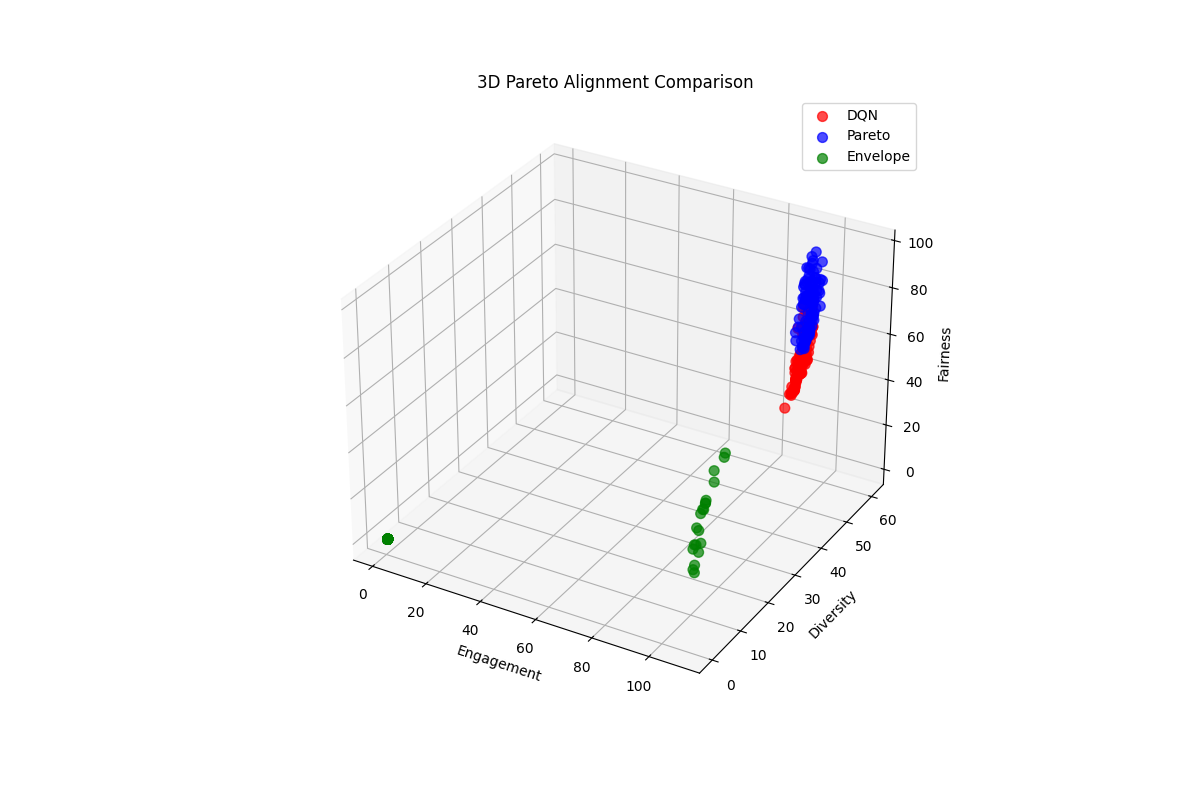
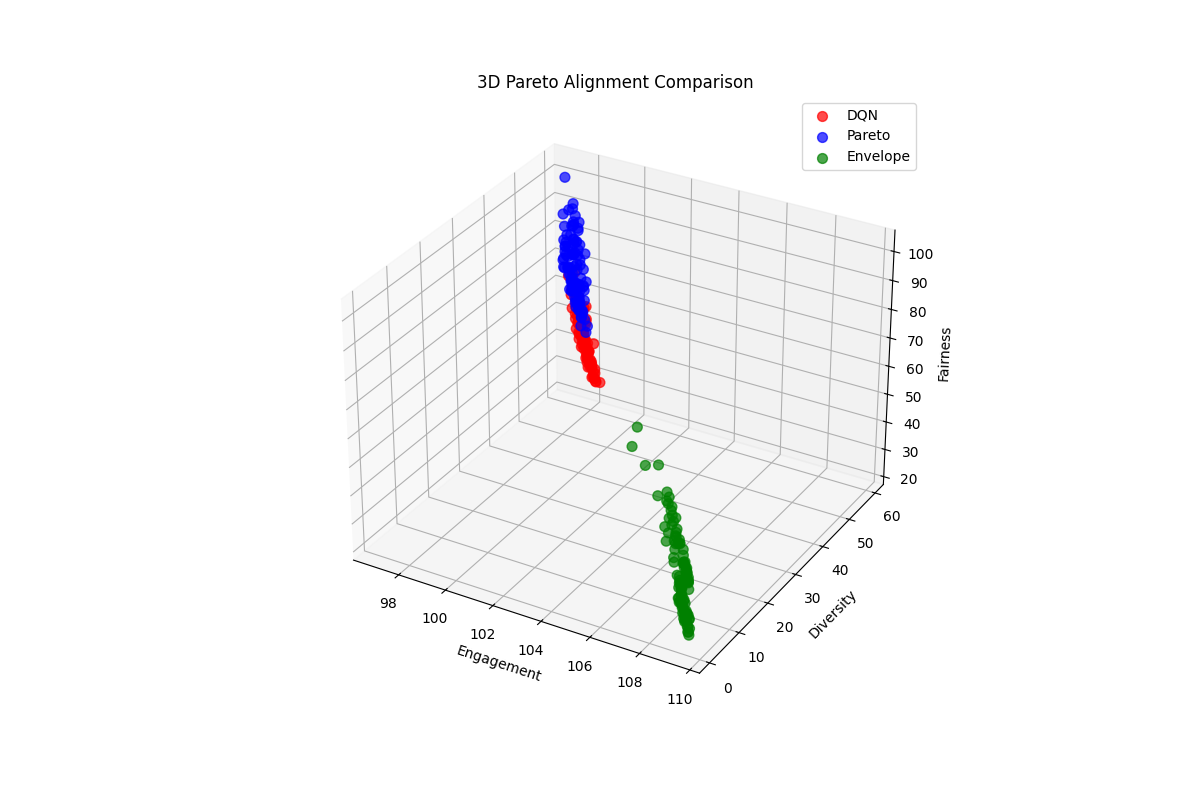
refactor: simplify evaluate_envelope_frontier by removing episode loops and update comparison plots

diff --git a/main.py b/main.py
@@ -234,24 +234,39 @@ def evaluate_agents(env, agent, num_episodes=20, agent_type='dqn'):
             
 #     return all_metrics
 
-def evaluate_envelope_frontier(env, agent, num_episodes_per_w=5,num_samples=20):
+# def evaluate_envelope_frontier(env, agent, num_episodes_per_w=5,num_samples=20):
+#     """Dense random sampling for a continuous Pareto surface."""
+#     metrics = {'rewards': [], 'variances': []}
+#     eval_weights = agent.sample_preferences(batch_size=num_samples)
+#     for w in eval_weights:
+#         state, info = env.reset(return_info=True)
+#         for _ in range(num_episodes_per_w):
+#             terminal, ep_rewards, traj = False, np.zeros(3), [state]
+#             while not terminal:
+#                 # Evaluation uses deterministic means
+#                 action_idx = agent.select_action(state, info['candidate_embeddings'], w, deterministic=True)
+#                 state, reward, terminal, info = env.step(action_idx)
+#                 ep_rewards, traj = ep_rewards + reward, traj + [state]
+#             metrics['rewards'].append(ep_rewards)
+#             metrics['variances'].append(np.trace(np.cov(np.array(traj), rowvar=False)))
+#     return metrics
+
+
+def evaluate_envelope_frontier(env, agent, num_samples=100):
     """Dense random sampling for a continuous Pareto surface."""
     metrics = {'rewards': [], 'variances': []}
     eval_weights = agent.sample_preferences(batch_size=num_samples)
     for w in eval_weights:
         state, info = env.reset(return_info=True)
-        for _ in range(num_episodes_per_w):
-            terminal, ep_rewards, traj = False, np.zeros(3), [state]
-            while not terminal:
-                # Evaluation uses deterministic means
-                action_idx = agent.select_action(state, info['candidate_embeddings'], w, deterministic=True)
-                state, reward, terminal, info = env.step(action_idx)
-                ep_rewards, traj = ep_rewards + reward, traj + [state]
-            metrics['rewards'].append(ep_rewards)
-            metrics['variances'].append(np.trace(np.cov(np.array(traj), rowvar=False)))
+        terminal, ep_rewards, traj = False, np.zeros(3), [state]
+        while not terminal:
+            # Evaluation uses deterministic means
+            action_idx = agent.select_action(state, info['candidate_embeddings'], w, deterministic=True)
+            state, reward, terminal, info = env.step(action_idx)
+            ep_rewards, traj = ep_rewards + reward, traj + [state]
+        metrics['rewards'].append(ep_rewards)
+        metrics['variances'].append(np.trace(np.cov(np.array(traj), rowvar=False)))
     return metrics
-
-
 
 def plot_filter_bubble(dqn_m, pareto_m, env_m):
     """Compares semantic homogenization across methods[cite: 83]."""
@@ -303,7 +318,7 @@ if __name__ == '__main__':
     env_agent = EnvelopeMOACAgent(384, 384, 3)
     env_buffer = PreferenceAwareBuffer(5000)
     train_envelope_moac(env, env_agent, env_buffer, episodes=100)
-    moac_metrics = evaluate_envelope_frontier(env, env_agent)
+    moac_metrics = evaluate_envelope_frontier(env, env_agent, num_samples=100)
 
 
     # 3. Train & Evaluate Pareto-DQN (MORL)
